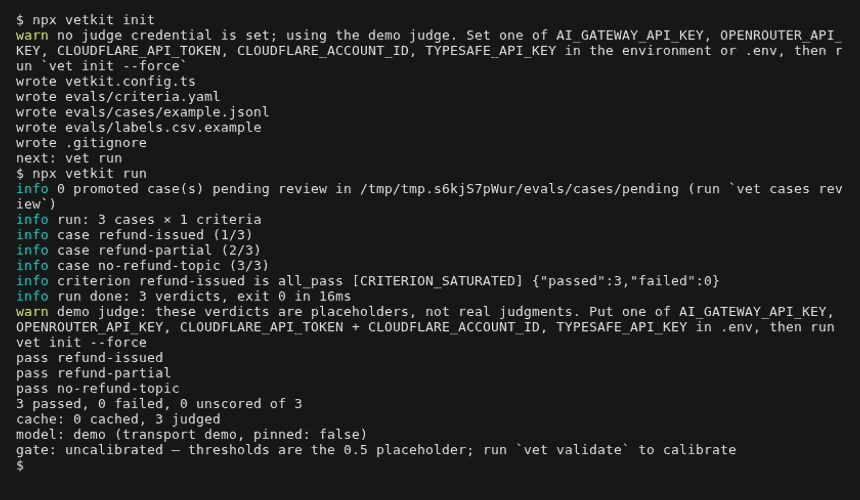
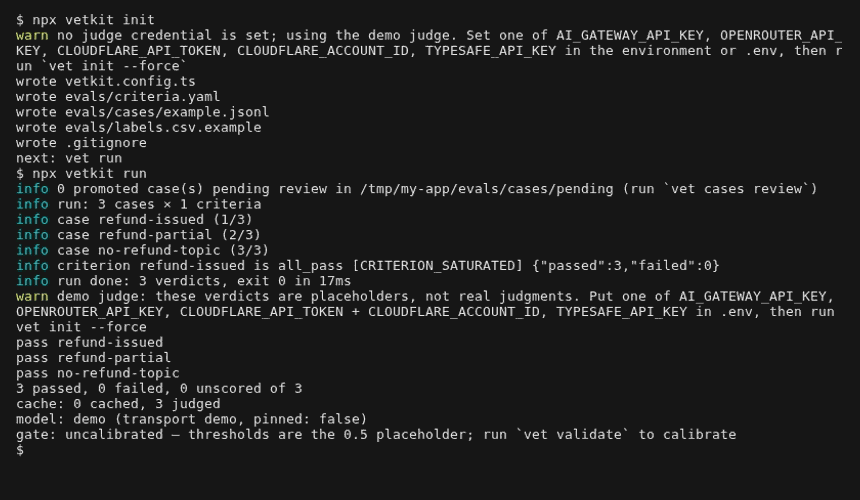
fix(docs): vet-ach.10 GREEN add the HTML report screenshot and re-record the terminal capture
assets/vet-report.png is a headless Chrome screenshot of the report.html of a
keyless fixture run (five cases, alternating in-process judge: 3 passed, 2
failed). Both READMEs embed it after the terminal capture; the cli README by
its raw.githubusercontent.com URL.

assets/vet-run.png is re-recorded from the tape, which now works in
${TMPDIR:-/tmp}/my-app instead of a bare mktemp directory, so the capture shows
/tmp/my-app and no random temp name. The tape header records the commands for
both images.

Changed region(s): [[0.0, 0.39, 0.9674, 0.93], [0.4535, 0.36, 0.9674, 0.39]]

diff --git a/packages/cli/README.md b/packages/cli/README.md
@@ -21,6 +21,8 @@ OPENROUTER_API_KEY=...
 
 ![Terminal capture of npx vetkit init followed by npx vetkit run: each case gets a verdict line marked demo, then a hint to set a judge key](https://raw.githubusercontent.com/MelsovCOZY/vetkit/master/assets/vet-run.png)
 
+![HTML report of a vetkit run, written by vet run --reporter html: the pass, fail and unscored counts, the calibration state, the judge model, a table per criterion and the failed cases](https://raw.githubusercontent.com/MelsovCOZY/vetkit/master/assets/vet-report.png)
+
 ## CI
 
 <!-- snippet: file=.github/workflows/vet.yml -->

diff --git a/README.md b/README.md
@@ -21,6 +21,8 @@ OPENROUTER_API_KEY=...
 
 ![Terminal capture of npx vetkit init followed by npx vetkit run: each case gets a verdict line marked demo, then a hint to set a judge key](assets/vet-run.png)
 
+![HTML report of a vetkit run, written by vet run --reporter html: the pass, fail and unscored counts, the calibration state, the judge model, a table per criterion and the failed cases](assets/vet-report.png)
+
 ## CI
 
 <!-- snippet: file=.github/workflows/vet.yml -->
